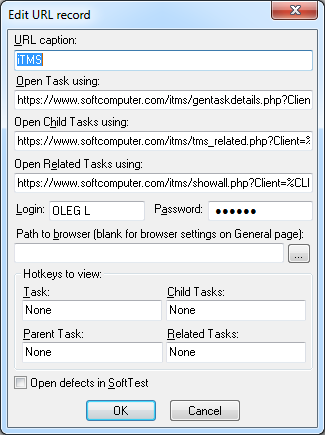
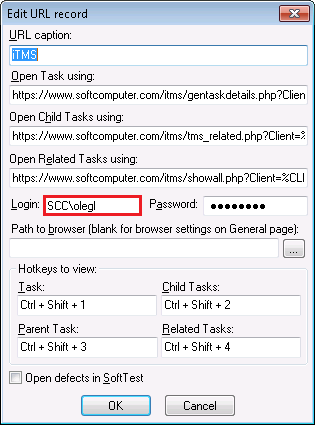
Updated HTML help

Changed region(s): [[0.0, 0.0, 1.0, 1.0]]

diff --git a/Help/whats_new.html b/Help/whats_new.html
@@ -16,17 +16,30 @@
 
 <hr size="1" noshade>
 
-<H2 align="center" class="boldfont">What's new in version 3.3?</H2>
+<H2 align="center" class="boldfont">What's new in version 3.4?</H2>
 <H4 align="justify" class="font">
 <UL>
-  <LI>Added new feature to open SoftDev issues in WebSoftDev
-  <LI>Restored functionality to open hotfixes which stopped working after changes on SCC CM site
-  <LI>Updated HTML help
+  <LI>Added support for tasks with alpha characters in ID like DEV4-<font color="red">A</font>1293
+  <LI>Restored functionality that stopped working after changes to login approach in iTMS:
+      <UL>
+          <LI>Open parent tasks
+          <LI>Open tasks using URL with %AA_ID%
+          <LI><a class="font" href="Features\commandline.html">Command line interface</a> (-p, -c, -qb, -qc, etc)
+      </UL>
+  <br>The last 3 changes require entering <a class="font" href="Settings\urls.html">login in new format</a> similar to the one used in iTMS: SCC\olegl or ISD\olip
 </UL>
 </H4>
 <br>
 <br>
 <H2 align="center" class="boldfont">History of changes in previous versions</H2>
+<H2 align="center" class="boldfont">Version 3.3</H2>
+<H4 align="justify" class="font">
+<UL>
+  <LI>Added new feature to open SoftDev issues in WebSoftDev
+  <LI>Restored functionality to open hotfixes that stopped working after changes on SCC CM site
+  <LI>Updated HTML help
+</UL>
+</H4>
 <H2 align="center" class="boldfont">Version 3.2</H2>
 <H4 align="justify" class="font">
 <UL>

diff --git a/Help/introduction.html b/Help/introduction.html
@@ -21,8 +21,8 @@
 <H4 align="justify" class="font">TMS Launcher is a tool that allows user to open TMS tasks, SoftTest defects, Test Cases, Software Installation Forms, Hotfixes and links in a browser window. Also since version 2.2 defects can be opened in SoftTest application directly. The tool does not require installation (only one executable file), it is easy to configure and use.</H4>
 </P>
 <P>
-<H4 align="justify" class="font"><U>System requirements</U>: IBM PC with one of the following OS: Windows 98/Me/2000/XP/2003/Vista/2008/7. 
-A WEB browser (Microsoft Internet Explorer, Mozilla FireFox, Google Chrome, Opera, etc) should be installed in the system. 
+<H4 align="justify" class="font"><U>System requirements</U>: IBM PC compatible computer with Windows XP or higher. 
+A Web browser (Microsoft Internet Explorer, Mozilla FireFox, Google Chrome, Opera, etc) should be installed in the system. 
 SoftTest application should also be installed to open defects in it.</H4>
 </P>
 </BODY>

diff --git a/Help/credits.html b/Help/credits.html
@@ -18,7 +18,7 @@
 
 <H2 align="center" class="boldfont">Credits</H2>
 <P align="justify" class="font">
-Designed and developed by Oleg Lypkan. Copyright &copy; 2005-2012, SCC SoftComputer.<br><br>
+Designed and developed by Oleg Lypkan. Copyright &copy; 2005-2013, SCC SoftComputer.<br><br>
 Special thanks to: Andrey Goryainov, Alexey Tjurin, Pavel Dovgay, Peter Sukhenko, Anton Krivosheya, Anatoliy Nikolenko, Vladimir Frolov, Olena Lunova and Olga Pervunina for ideas, remarks and testing.
 </P>
 </BODY>
